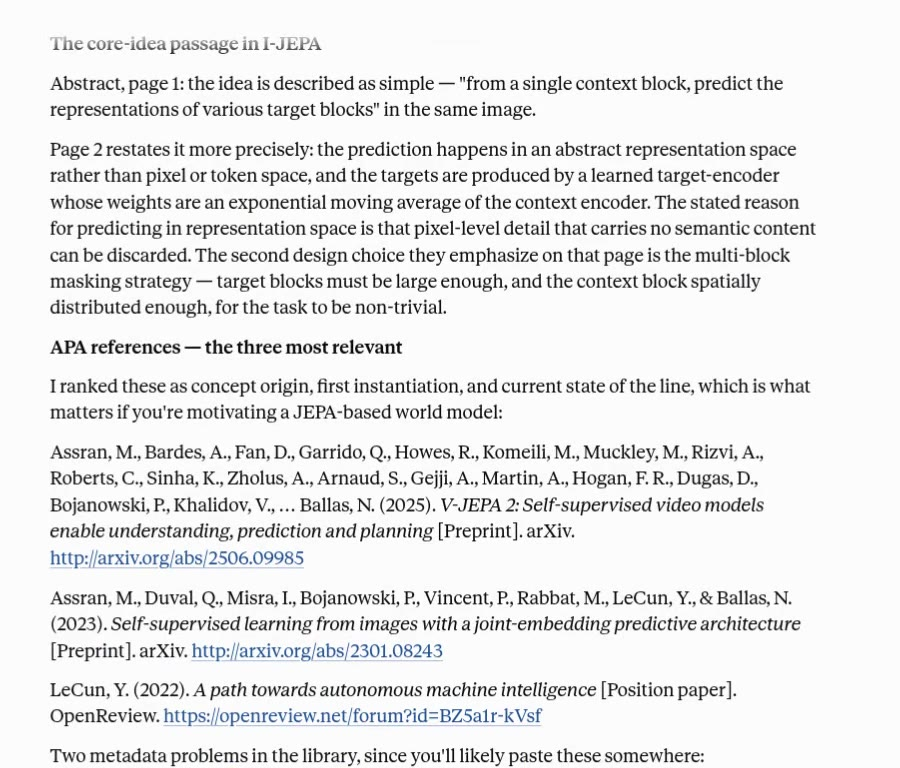
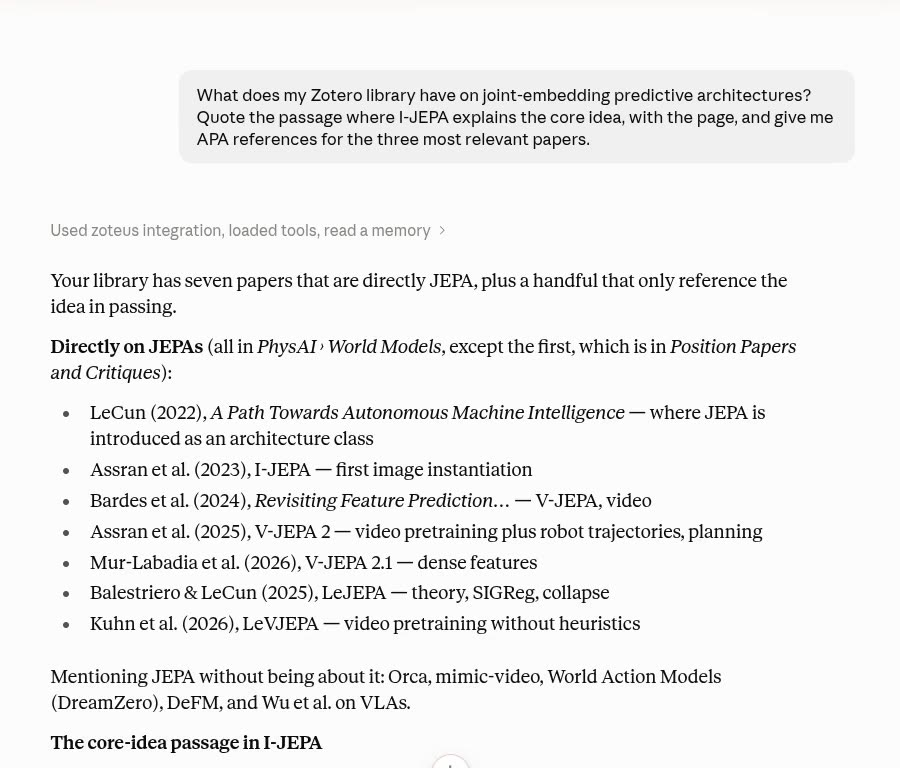
home: put the recording beside the headline, at half the width
The recording ran the full container width under the headline, so the fold
was mostly video. It now sits in the right column of a two-column hero from
lg up, at roughly 450px instead of 900px, and still stacks under the text on
narrower screens.

At that size the answer reads as shape rather than prose, so the caption row
gained a Full size control that opens the same recording at native width in a
dialog: Esc, the close button and the backdrop all close it, and the hero loop
pauses while it is open. The width and height attributes claimed 1040x790 for
a file that is 900x768, which reserved the wrong aspect ratio and shifted the
layout on load.

The poster frame was the last frame of the clip, a wall of APA references with
no question in sight, which is also all a reduced-motion visitor ever sees. It
is now the frame carrying the question and the start of the answer, and 51KB
smaller.

Also drops the CSS for the transcript and hand-built chat cards that the
recording replaced two commits ago.

Changed region(s): [[0.0311, 0.0938, 0.9333, 1.0], [0.0622, 0.0312, 0.3733, 0.0625]]

diff --git a/components/demo-video.tsx b/components/demo-video.tsx
@@ -1,6 +1,22 @@
 'use client';
 
-import { useEffect, useRef } from 'react';
+import { useCallback, useEffect, useRef, useState } from 'react';
+
+const SOURCES = [
+  { src: '/demo/claude-ai.webm', type: 'video/webm' },
+  { src: '/demo/claude-ai.mp4', type: 'video/mp4' },
+];
+
+const CAPTION_ALT =
+  'Claude in the browser answers a question about the Zotero library through Zoteus: it lists the seven JEPA papers, quotes the I-JEPA passage with its page, and gives APA references.';
+
+function ExpandIcon() {
+  return (
+    <svg viewBox="0 0 24 24" width="13" height="13" fill="none" stroke="currentColor" strokeWidth="1.8" strokeLinecap="round" strokeLinejoin="round" aria-hidden>
+      <path d="M9 3H3v6M15 21h6v-6M21 9V3h-6M3 15v6h6" />
+    </svg>
+  );
+}
 
 /**
  * The hero recording: claude.ai in the browser with the hosted Zoteus connector,
@@ -8,11 +24,16 @@ import { useEffect, useRef } from 'react';
  * Nothing staged; four minutes cut to half a minute (the tool calls run as a
  * time-lapse). The raw takes are kept with the marketing assets (zoteus-gtm/demo).
  *
- * Plays muted, inline, on a loop. Under prefers-reduced-motion it stays on the
- * poster frame and the controls are there for anyone who wants to play it.
+ * Plays muted, inline, on a loop. Beside the headline it renders at roughly half
+ * its native width, where the answer reads as shape rather than prose, so the
+ * caption row opens the same recording full size in a dialog. Under
+ * prefers-reduced-motion it stays on the poster frame (the question and the first
+ * half of the answer) and the controls are there for anyone who wants to play it.
  */
 export function DemoVideo() {
   const ref = useRef<HTMLVideoElement>(null);
+  const dialogRef = useRef<HTMLDialogElement>(null);
+  const [open, setOpen] = useState(false);
 
   useEffect(() => {
     const video = ref.current;
@@ -34,32 +55,100 @@ export function DemoVideo() {
     return () => mq.removeEventListener('change', apply);
   }, []);
 
+  /* The dialog's own close event: the close button, Esc and the backdrop all
+     land here. Bound natively, since `close` does not bubble. */
+  useEffect(() => {
+    const dialog = dialogRef.current;
+    if (!dialog) return;
+    const onClose = () => {
+      setOpen(false);
+      const video = ref.current;
+      if (video && !window.matchMedia('(prefers-reduced-motion: reduce)').matches) {
+        video.play().catch(() => {});
+      }
+    };
+    dialog.addEventListener('close', onClose);
+    return () => dialog.removeEventListener('close', onClose);
+  }, []);
+
+  const openFull = useCallback(() => {
+    setOpen(true);
+    dialogRef.current?.showModal();
+    ref.current?.pause();
+  }, []);
+
   return (
-    <figure className="z-video z-panel">
-      <div className="z-chat-bar">
-        <span className="z-label normal-case tracking-normal">claude.ai</span>
-        <span className="z-label normal-case tracking-normal">Zoteus, hosted connector</span>
-      </div>
-      <video
-        ref={ref}
-        className="z-video-el"
-        autoPlay
-        muted
-        loop
-        playsInline
-        preload="metadata"
-        poster="/demo/claude-ai-poster.jpg"
-        width={1040}
-        height={790}
-        aria-label="Claude in the browser answers a question about the Zotero library through Zoteus: it lists the seven JEPA papers, quotes the I-JEPA passage with its page, and gives APA references."
+    <>
+      <figure className="z-video z-panel">
+        <div className="z-chat-bar">
+          <span className="z-label normal-case tracking-normal">claude.ai</span>
+          <span className="z-label normal-case tracking-normal">Zoteus, hosted connector</span>
+        </div>
+        <video
+          ref={ref}
+          className="z-video-el"
+          autoPlay
+          muted
+          loop
+          playsInline
+          preload="metadata"
+          poster="/demo/claude-ai-poster.jpg"
+          width={900}
+          height={768}
+          aria-label={CAPTION_ALT}
+        >
+          {SOURCES.map((s) => (
+            <source key={s.src} src={s.src} type={s.type} />
+          ))}
+        </video>
+        <figcaption className="z-chat-cap z-video-cap">
+          <span>
+            Recorded 6 September 2026 against the maintainer&apos;s own library. Nothing staged.
+          </span>
+          <button type="button" className="z-video-expand" onClick={openFull}>
+            <ExpandIcon />
+            Full size
+          </button>
+        </figcaption>
+      </figure>
+
+      <dialog
+        ref={dialogRef}
+        className="z-lightbox"
+        onClick={(e) => {
+          /* the backdrop is the dialog itself; a click on the panel stops here */
+          if (e.target === dialogRef.current) dialogRef.current.close();
+        }}
+        aria-label="The Zoteus recording, full size"
       >
-        <source src="/demo/claude-ai.webm" type="video/webm" />
-        <source src="/demo/claude-ai.mp4" type="video/mp4" />
-      </video>
-      <figcaption className="z-chat-cap">
-        Recorded 6 September 2026 in claude.ai with the hosted connector, against the maintainer&apos;s
-        own library. Nothing staged; the two-minute wait for the tool calls runs as a time-lapse.
-      </figcaption>
-    </figure>
+        <div className="z-lightbox-inner z-panel">
+          <div className="z-chat-bar">
+            <span className="z-label normal-case tracking-normal">claude.ai</span>
+            <button type="button" className="z-lightbox-close" onClick={() => dialogRef.current?.close()}>
+              Close
+            </button>
+          </div>
+          {/* Mounted only while open, so the page loads one video, not two. */}
+          {open && (
+            <video
+              className="z-video-el"
+              autoPlay
+              muted
+              loop
+              playsInline
+              controls
+              poster="/demo/claude-ai-poster.jpg"
+              width={900}
+              height={768}
+              aria-label={CAPTION_ALT}
+            >
+              {SOURCES.map((s) => (
+                <source key={s.src} src={s.src} type={s.type} />
+              ))}
+            </video>
+          )}
+        </div>
+      </dialog>
+    </>
   );
 }

diff --git a/app/global.css b/app/global.css
@@ -361,84 +361,43 @@ body {
 .z-faq summary svg { flex: none; color: var(--color-fd-muted-foreground); transition: rotate 0.2s ease; }
 .z-faq details[open] summary svg { rotate: 45deg; }
 
-/* -- the demo transcript ------------------------------------------------------- */
+/* -- the frame around the recording ------------------------------------------ */
 
-.z-transcript { font-size: 0.9rem; line-height: 1.55; }
-.z-transcript .z-turn { display: grid; grid-template-columns: 4.25rem minmax(0, 1fr); gap: 0.75rem; }
-.z-transcript .z-who { font-family: var(--font-mono); font-size: 0.72rem; letter-spacing: 0.06em; text-transform: uppercase; color: var(--color-fd-muted-foreground); padding-top: 0.2rem; }
-.z-transcript .z-call {
-  display: flex;
-  flex-wrap: wrap;
-  align-items: baseline;
-  gap: 0.25rem 0.6rem;
-  font-family: var(--font-mono);
-  font-size: 0.78rem;
-  line-height: 1.5;
-  color: var(--color-fd-muted-foreground);
-}
-.z-transcript .z-call b { font-weight: 500; color: var(--accent-text); }
-.z-transcript .z-call span { overflow-wrap: anywhere; }
-.z-transcript cite {
-  display: block;
-  font-style: normal;
-  font-size: 0.8rem;
-  line-height: 1.5;
-  padding-left: 0.75rem;
-  border-left: 2px solid var(--color-fd-border);
-  color: var(--color-fd-muted-foreground);
-}
-@media (max-width: 26rem) {
-  .z-transcript .z-turn { grid-template-columns: 1fr; gap: 0.25rem; }
-}
-
-/* -- the hero exchange, framed as the chat it was ------------------------------ */
-
-.z-chat { width: 100%; overflow: hidden; }
 .z-chat-bar {
   display: flex; justify-content: space-between; gap: 1rem;
   padding: 0.6rem 1rem; border-bottom: 1px solid var(--color-fd-border);
 }
-.z-chat-body { display: flex; flex-direction: column; gap: 1rem; padding: 1.25rem 1rem; }
-@media (min-width: 40rem) { .z-chat-body { padding: 1.5rem; gap: 1.15rem; } }
-.z-msg { display: flex; flex-direction: column; gap: 0.35rem; max-width: 44rem; font-size: 0.95rem; line-height: 1.55; }
-.z-msg p { margin: 0; }
-.z-msg-who {
-  font-family: var(--font-mono); font-size: 0.7rem; letter-spacing: 0.06em;
-  text-transform: uppercase; color: var(--color-fd-muted-foreground);
-}
-.z-msg-user { align-self: flex-end; align-items: flex-end; max-width: 38rem; text-align: left; }
-.z-msg-user p {
-  background: var(--accent-soft); color: var(--color-fd-foreground);
-  border-radius: 14px 14px 3px 14px; padding: 0.7rem 0.95rem;
-}
-.z-msg-claude { align-self: flex-start; }
-.z-msg-claude > div { display: flex; flex-direction: column; gap: 0.6rem; color: var(--color-fd-muted-foreground); }
-.z-msg-claude blockquote {
-  margin: 0; padding-left: 0.85rem; border-left: 2px solid var(--accent-text);
-  color: var(--color-fd-foreground); font-style: italic;
-}
-.z-msg-src { font-size: 0.85rem; }
-.z-msg-claude cite { display: block; font-style: normal; font-size: 0.8rem; line-height: 1.5; color: var(--color-fd-muted-foreground); }
-.z-tools { list-style: none; margin: 0; padding: 0; display: flex; flex-wrap: wrap; gap: 0.5rem; }
-.z-tools li {
-  display: inline-flex; flex-wrap: wrap; align-items: baseline; gap: 0.45rem;
-  padding: 0.32rem 0.75rem; border: 1px solid var(--color-fd-border); border-radius: 999px;
-  background: var(--color-fd-background);
-  font-family: var(--font-mono); font-size: 0.74rem; line-height: 1.4; color: var(--color-fd-muted-foreground);
-}
-.z-tools b { font-weight: 500; color: var(--accent-text); }
-.z-tools .z-tool-out { color: var(--color-fd-foreground); }
-.z-tools .z-tool-out::before { content: '\2192  '; color: var(--color-fd-muted-foreground); }
 .z-chat-cap {
   padding: 0.6rem 1rem; border-top: 1px solid var(--color-fd-border);
   font-size: 0.78rem; line-height: 1.45; color: var(--color-fd-muted-foreground);
 }
-@keyframes z-reveal { from { opacity: 0; transform: translateY(6px); } to { opacity: 1; transform: none; } }
-.z-chat [data-reveal] { animation: z-reveal 0.5s ease-out both; animation-delay: calc(var(--i, 0) * 0.45s); }
-@media (prefers-reduced-motion: reduce) { .z-chat [data-reveal] { animation-delay: 0s; } }
 
-.z-video { width: 100%; max-width: 56rem; margin-inline: auto; overflow: hidden; }
+.z-video { width: 100%; max-width: 34rem; margin-inline: auto; overflow: hidden; }
+@media (min-width: 64rem) { .z-video { max-width: none; } }
 .z-video-el { display: block; width: 100%; height: auto; background: var(--color-fd-card); }
+.z-video-cap { display: flex; align-items: baseline; justify-content: space-between; gap: 1rem; }
+.z-video-expand {
+  display: inline-flex; align-items: center; gap: 0.4rem; flex: none;
+  font-family: var(--font-mono); font-size: 0.72rem; letter-spacing: 0.04em;
+  color: var(--color-fd-muted-foreground); cursor: pointer;
+  transition: color 0.15s ease;
+}
+.z-video-expand:hover { color: var(--accent-text); }
+
+/* -- the recording at native size --------------------------------------------- */
+
+.z-lightbox {
+  margin: auto; padding: 1rem; max-width: min(100vw, 60rem); max-height: 100dvh;
+  background: transparent; border: 0; color: var(--color-fd-foreground);
+}
+.z-lightbox::backdrop { background: rgb(0 0 0 / 0.55); }
+.z-lightbox-inner { overflow: hidden; }
+.z-lightbox-inner .z-video-el { max-height: calc(100dvh - 6rem); width: auto; max-width: 100%; margin-inline: auto; }
+.z-lightbox-close {
+  font-family: var(--font-mono); font-size: 0.72rem; letter-spacing: 0.04em;
+  color: var(--color-fd-muted-foreground); cursor: pointer; transition: color 0.15s ease;
+}
+.z-lightbox-close:hover { color: var(--accent-text); }
 
 /* -- system diagram ------------------------------------------------------------ */
 

diff --git a/app/(home)/page.tsx b/app/(home)/page.tsx
@@ -77,11 +77,11 @@ export default function Home() {
       <JsonLd data={softwareApplicationLd(siteDescription)} />
       {/* Hero */}
       <section className="border-b border-fd-border">
-        <div className="z-container py-14 sm:py-20 lg:py-24">
-          <div className="max-w-3xl">
+        <div className="z-container grid items-center gap-10 py-14 sm:py-20 lg:grid-cols-[minmax(0,1.12fr)_minmax(0,0.88fr)] lg:gap-14 lg:py-24">
+          <div className="max-w-2xl">
             <p className="z-label">Open-source · Zotero MCP server</p>
             <h1 className="z-display z-h1 mt-5 max-w-[15ch]">Your whole Zotero library, inside Claude.</h1>
-            <p className="z-lead mt-6 max-w-2xl">
+            <p className="z-lead mt-6 max-w-xl">
               Zoteus gives Claude, Cursor, and other MCP clients real access to your reference
               library: semantic search over your own PDFs, citations in any CSL style, add by
               DOI, attachments, and PDF highlights anchored to the text they quote.{' '}
@@ -102,9 +102,7 @@ export default function Home() {
               <span>No telemetry</span>
             </p>
           </div>
-          <div className="mt-12 sm:mt-16">
-            <DemoVideo />
-          </div>
+          <DemoVideo />
         </div>
       </section>
 
